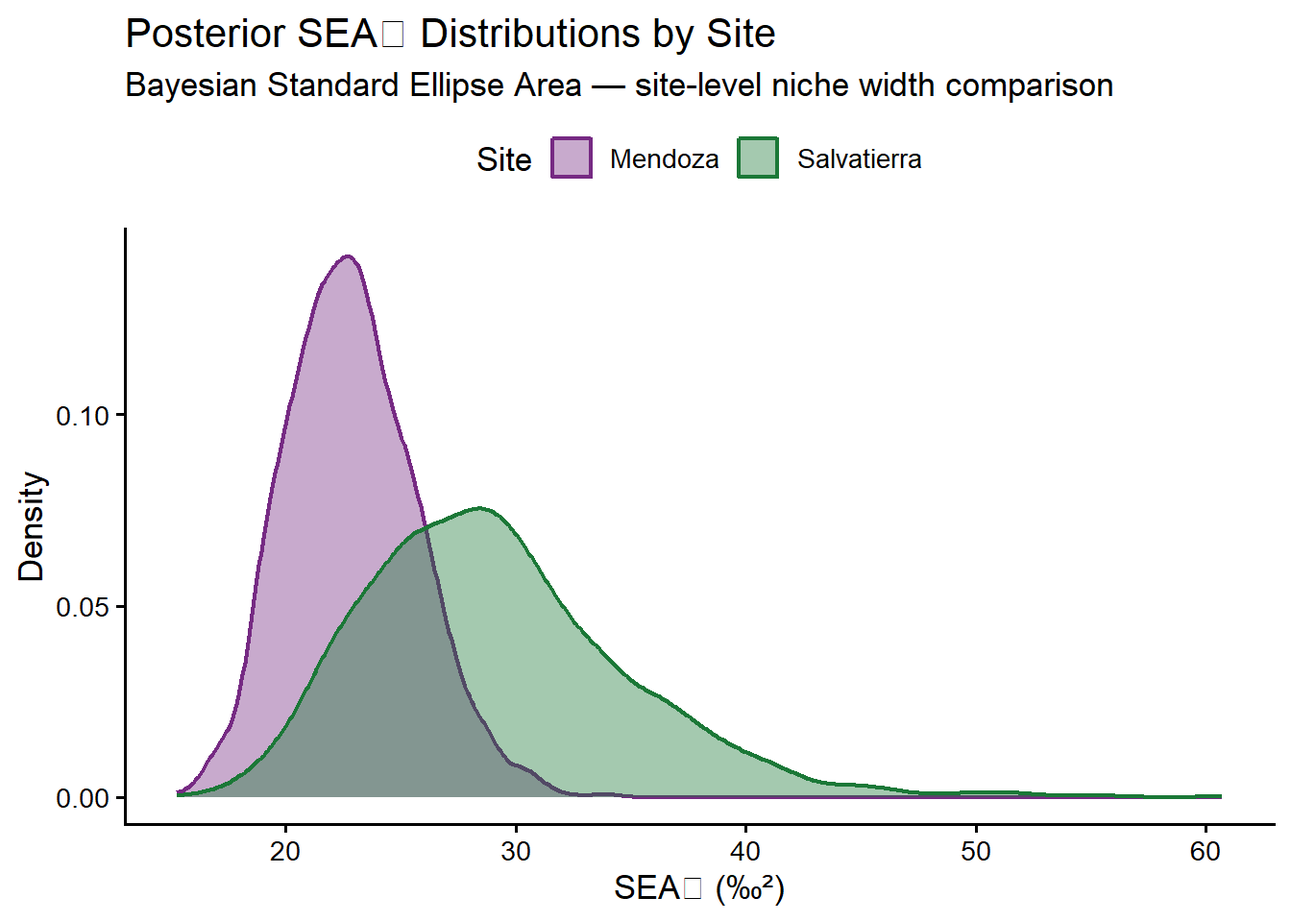
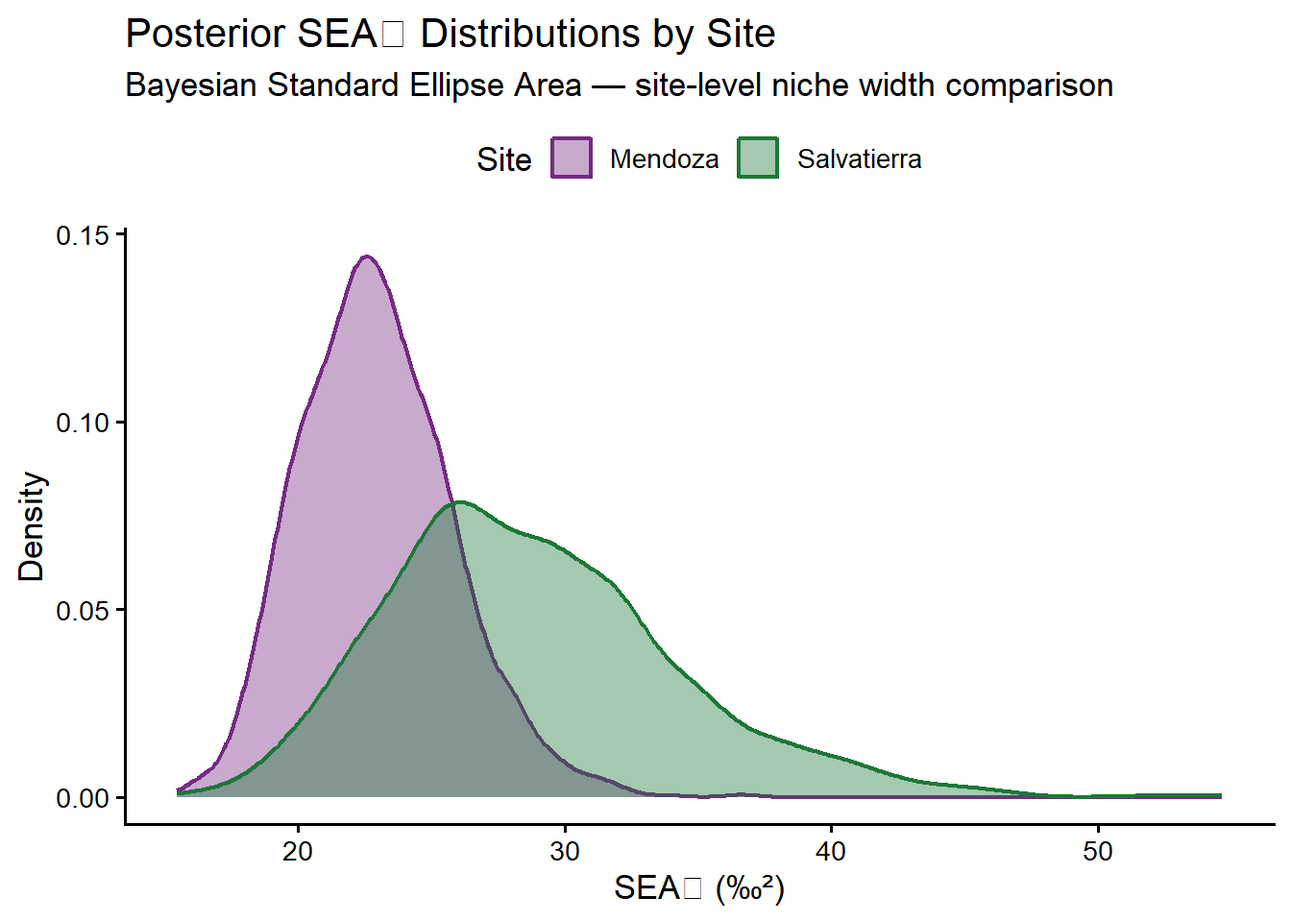
Merge remote changes from Stella

diff --git a/CollDataSciPro.html b/CollDataSciPro.html
@@ -136,24 +136,32 @@ pre > code.sourceCode > span > a:first-child::before { text-decoration: underlin
 </section>
 <section id="the-problem" class="level4">
 <h4 class="anchored" data-anchor-id="the-problem">The problem</h4>
-<p>Introduction</p>
+<p>Find innovative ways to analyze specific cases based on small and noisy datasets. Archaeological research reports several observations from diverse data that most of times does not show regular patterns or relations between them. In this case, the exploration of quantitative datasets helps us to establish correlations between different variables in order to foster interpretations on ancient human behavior and change.</p>
 </section>
 <section id="chosen-methods" class="level4">
 <h4 class="anchored" data-anchor-id="chosen-methods">Chosen methods</h4>
 <p>what is this method?</p>
-<section id="bayesian-isotopic-niche-modeling-siber-with-siber" class="level5" data-siber="">
-<h5 data-siber="" class="anchored" data-anchor-id="bayesian-isotopic-niche-modeling-siber-with-siber">Bayesian isotopic niche modeling (SIBER) with {SIBER}</h5>
+<section id="bayesian-isotopic-niche-modeling-siber-with-siber-and-kmeans-hclust" class="level5" data-siber="">
+<h5 data-siber="" class="anchored" data-anchor-id="bayesian-isotopic-niche-modeling-siber-with-siber-and-kmeans-hclust">Bayesian isotopic niche modeling (SIBER) with {SIBER} and Kmeans Hclust</h5>
 <p>This module introduces Bayesian isotopic niche modeling using SIBER to compare dietary niches across species and through time, demonstrating how ecologists and archaeologists can make robust inferences from small, noisy datasets.</p>
-<p>When should be used</p>
-<p>How can Bayesian methods be used to estimate and compare dietary niches when sample sizes are small and uncertainty is high?</p>
-<p>Why does it matter</p>
+</section>
+<section id="when-should-be-used" class="level5">
+<h5 class="anchored" data-anchor-id="when-should-be-used">When should be used</h5>
+<p>SIBER is the appropriate tool when you need to <strong>characterise and compare dietary or ecological niches</strong> from stable isotope data (δ¹³C and δ¹⁵N) across multiple groups simultaneously. It is especially well suited for archaeological and ecological studies where sample sizes are small and unequal, uncertainty needs to be explicitly quantified, and classical approaches like convex hulls or t-tests would either be biased or unable to answer the research question.</p>
+<p>The core innovation of SIBER is replacing single-point niche estimates with <strong>full posterior distributions</strong> over all plausible ellipse sizes and shapes given the observed data. It does this through three mechanisms:</p>
+<p><strong>Small-sample correction:</strong> The inverse-Wishart prior on the covariance matrix regularises extreme estimates when n is small, producing stable and interpretable ellipses even with as few as 9 observations — something classical convex hulls and maximum likelihood ellipses cannot do reliably.</p>
+<p><strong>Uncertainty quantification:</strong> Rather than asking “is group A’s niche larger than group B’s?” as a binary question, SIBER answers “in what fraction of posterior draws is A’s ellipse area larger than B’s?” — a direct probability statement that honestly reflects how much the data actually support the comparison.</p>
+<p><strong>Propagation of uncertainty:</strong> All downstream quantities — ellipse overlap, Layman community metrics, centroid distances — inherit uncertainty from the ellipse parameters, meaning conclusions about niche differences are automatically hedged by the precision of the underlying estimates.</p>
+</section>
+<section id="why-does-it-matter" class="level5">
+<h5 class="anchored" data-anchor-id="why-does-it-matter">Why does it matter</h5>
+<p>At the <strong>methodological level</strong>, SIBER transformed isotopic ecology from univariate mean comparisons to two-dimensional niche characterisation, and the Bayesian framework made that characterisation honest about its own limitations when data are sparse.</p>
+<p>At the <strong>practical level</strong>, implementing SIBER in a fully reproducible R script within a Quarto vignette means the analysis can be independently verified, extended with new data, and adapted to future excavations across the southern Amazon without redesigning the workflow from scratch.</p>
+<p>In short, SIBER matters because it is the only method that can simultaneously characterise dietary niches, compare them across groups with unequal and small sample sizes, and communicate the uncertainty in those comparisons in a statistically principled way — all of which are non-negotiable requirements for credible dietary reconstruction in archaeology and ecology.</p>
 </section>
 </section>
-<section id="the-data" class="level4">
-<h4 class="anchored" data-anchor-id="the-data">The data</h4>
-<p>Where it comes from</p>
-<p>What variables matter</p>
-<p>Analytical workflow: step by step, concrete interpretation</p>
+<section id="analytical-workflow-step-by-step-concrete-interpretation" class="level4">
+<h4 class="anchored" data-anchor-id="analytical-workflow-step-by-step-concrete-interpretation">Analytical workflow: step by step, concrete interpretation</h4>
 <section id="install-and-load-required-packages" class="level5">
 <h5 class="anchored" data-anchor-id="install-and-load-required-packages">Install and load required packages</h5>
 <div class="cell">
@@ -581,8 +589,8 @@ Posterior SEA_B summary (‰²):</code></pre>
 <div class="code-copy-outer-scaffold"><div class="sourceCode cell-code" id="cb48"><pre class="sourceCode r code-with-copy"><code class="sourceCode r"><span id="cb48-1"><a href="#cb48-1" aria-hidden="true" tabindex="-1"></a><span class="fu">print</span>(<span class="fu">round</span>(<span class="fu">t</span>(SEA_B_sites_summary), <span class="dv">3</span>))</span></code></pre></div><button title="Copy to Clipboard" class="code-copy-button"><i class="bi"></i></button></div>
 <div class="cell-output cell-output-stdout">
 <pre><code>              mean median lower.2.5% upper.97.5%
-Mendoza     22.873 22.715     17.950      28.853
-Salvatierra 29.135 28.557     20.143      41.759</code></pre>
+Mendoza     22.960 22.778     18.049      29.215
+Salvatierra 28.762 28.081     19.851      40.984</code></pre>
 </div>
 </div>
 <p>Plot posterior SEA_B distributions</p>
@@ -620,7 +628,7 @@ Salvatierra 29.135 28.557     20.143      41.759</code></pre>
 <span id="cb51-4"><a href="#cb51-4" aria-hidden="true" tabindex="-1"></a>))</span></code></pre></div><button title="Copy to Clipboard" class="code-copy-button"><i class="bi"></i></button></div>
 <div class="cell-output cell-output-stdout">
 <pre><code>
-P(SEA_B Salvatierra &gt; SEA_B Mendoza) = 0.845</code></pre>
+P(SEA_B Salvatierra &gt; SEA_B Mendoza) = 0.836</code></pre>
 </div>
 </div>
 </section>
@@ -760,10 +768,10 @@ Posterior SEA_B summary by phase (‰²):</code></pre>
 <div class="code-copy-outer-scaffold"><div class="sourceCode cell-code" id="cb64"><pre class="sourceCode r code-with-copy"><code class="sourceCode r"><span id="cb64-1"><a href="#cb64-1" aria-hidden="true" tabindex="-1"></a><span class="fu">print</span>(<span class="fu">round</span>(<span class="fu">t</span>(SEA_B_phase_summary), <span class="dv">3</span>))</span></code></pre></div><button title="Copy to Clipboard" class="code-copy-button"><i class="bi"></i></button></div>
 <div class="cell-output cell-output-stdout">
 <pre><code>         mean median lower.2.5% upper.97.5%
-Phase_2 9.653  8.995      5.006      18.028
-Phase_3 5.996  5.813      4.042       8.912
-Phase_4 6.743  6.587      4.627       9.927
-Phase_5 9.374  8.394      4.362      19.894</code></pre>
+Phase_2 9.673  8.953      5.038      18.029
+Phase_3 5.939  5.803      4.013       8.790
+Phase_4 6.695  6.522      4.587       9.705
+Phase_5 9.267  8.277      4.301      20.036</code></pre>
 </div>
 <div class="code-copy-outer-scaffold"><div class="sourceCode cell-code" id="cb66"><pre class="sourceCode r code-with-copy"><code class="sourceCode r"><span id="cb66-1"><a href="#cb66-1" aria-hidden="true" tabindex="-1"></a>SEA_B_phase_long <span class="ot">&lt;-</span> <span class="fu">as.data.frame</span>(SEA_B_phase) <span class="sc">%&gt;%</span></span>
 <span id="cb66-2"><a href="#cb66-2" aria-hidden="true" tabindex="-1"></a>  <span class="fu">pivot_longer</span>(<span class="fu">everything</span>(), <span class="at">names_to =</span> <span class="st">"Phase"</span>, <span class="at">values_to =</span> <span class="st">"SEA_B"</span>) <span class="sc">%&gt;%</span></span>
@@ -802,12 +810,12 @@ Pairwise posterior probabilities P(row &gt; col):</code></pre>
 <span id="cb69-3"><a href="#cb69-3" aria-hidden="true" tabindex="-1"></a>  <span class="fu">cat</span>(<span class="fu">sprintf</span>(<span class="st">"  P(%s &gt; %s) = %.3f</span><span class="sc">\n</span><span class="st">"</span>, pair[<span class="dv">1</span>], pair[<span class="dv">2</span>], p))</span>
 <span id="cb69-4"><a href="#cb69-4" aria-hidden="true" tabindex="-1"></a>}</span></code></pre></div><button title="Copy to Clipboard" class="code-copy-button"><i class="bi"></i></button></div>
 <div class="cell-output cell-output-stdout">
-<pre><code>  P(Phase_2 &gt; Phase_3) = 0.878
-  P(Phase_2 &gt; Phase_4) = 0.814
-  P(Phase_2 &gt; Phase_5) = 0.555
-  P(Phase_3 &gt; Phase_4) = 0.336
+<pre><code>  P(Phase_2 &gt; Phase_3) = 0.881
+  P(Phase_2 &gt; Phase_4) = 0.802
+  P(Phase_2 &gt; Phase_5) = 0.562
+  P(Phase_3 &gt; Phase_4) = 0.343
   P(Phase_3 &gt; Phase_5) = 0.184
-  P(Phase_4 &gt; Phase_5) = 0.258</code></pre>
+  P(Phase_4 &gt; Phase_5) = 0.301</code></pre>
 </div>
 </div>
 </section>
@@ -1017,13 +1025,13 @@ Posterior SEA_B summary for all groups (‰²):</code></pre>
 <div class="code-copy-outer-scaffold"><div class="sourceCode cell-code" id="cb89"><pre class="sourceCode r code-with-copy"><code class="sourceCode r"><span id="cb89-1"><a href="#cb89-1" aria-hidden="true" tabindex="-1"></a><span class="fu">print</span>(<span class="fu">round</span>(<span class="fu">t</span>(SEA_B_combined_summary), <span class="dv">3</span>))</span></code></pre></div><button title="Copy to Clipboard" class="code-copy-button"><i class="bi"></i></button></div>
 <div class="cell-output cell-output-stdout">
 <pre><code>                     mean median lower.2.5% upper.97.5%
-Salvatierra Humans 22.990 22.652     18.070      29.214
-Mendoza Humans     29.004 28.244     19.832      42.169
-Ungulates           4.171  3.914      2.239       7.748
-Armadillos          5.405  5.113      3.189       9.212
-Riverines           7.027  6.828      4.391      10.747
-Muscovy Duck       19.363 18.048      9.757      37.270
-Rodents             9.258  8.579      4.733      17.688</code></pre>
+Salvatierra Humans 22.972 22.782     18.014      29.227
+Mendoza Humans     29.088 28.369     19.972      42.847
+Ungulates           4.153  3.843      2.237       7.760
+Armadillos          5.474  5.140      3.188       9.453
+Riverines           7.045  6.817      4.537      10.721
+Muscovy Duck       19.432 18.085      9.875      37.551
+Rodents             9.330  8.599      4.839      18.420</code></pre>
 </div>
 <div class="code-copy-outer-scaffold"><div class="sourceCode cell-code" id="cb91"><pre class="sourceCode r code-with-copy"><code class="sourceCode r"><span id="cb91-1"><a href="#cb91-1" aria-hidden="true" tabindex="-1"></a>plot_df <span class="ot">&lt;-</span> siber_combined_df <span class="sc">%&gt;%</span></span>
 <span id="cb91-2"><a href="#cb91-2" aria-hidden="true" tabindex="-1"></a>  <span class="fu">rename</span>(<span class="at">d13C =</span> iso1, <span class="at">d15N =</span> iso2)</span>
@@ -1358,7 +1366,7 @@ Phase 3   0.317   1.000   0.535   0.533
 Phase 4   0.188   0.535   1.000   0.379
 Phase 5   0.006   0.533   0.379   1.000</code></pre>
 </div>
-<div class="code-copy-outer-scaffold"><div class="sourceCode cell-code" id="cb137"><pre class="sourceCode r code-with-copy"><code class="sourceCode r"><span id="cb137-1"><a href="#cb137-1" aria-hidden="true" tabindex="-1"></a><span class="co"># --- 11d. Visualise as annotated heatmap ---</span></span>
+<div class="code-copy-outer-scaffold"><div class="sourceCode cell-code" id="cb137"><pre class="sourceCode r code-with-copy"><code class="sourceCode r"><span id="cb137-1"><a href="#cb137-1" aria-hidden="true" tabindex="-1"></a><span class="co"># ---. Visualise as annotated heatmap ---</span></span>
 <span id="cb137-2"><a href="#cb137-2" aria-hidden="true" tabindex="-1"></a>overlap_df <span class="ot">&lt;-</span> <span class="fu">as.data.frame</span>(overlap_matrix) <span class="sc">%&gt;%</span></span>
 <span id="cb137-3"><a href="#cb137-3" aria-hidden="true" tabindex="-1"></a>  <span class="fu">rownames_to_column</span>(<span class="st">"Phase_row"</span>) <span class="sc">%&gt;%</span></span>
 <span id="cb137-4"><a href="#cb137-4" aria-hidden="true" tabindex="-1"></a>  <span class="fu">pivot_longer</span>(<span class="sc">-</span>Phase_row, <span class="at">names_to =</span> <span class="st">"Phase_col"</span>, <span class="at">values_to =</span> <span class="st">"Overlap"</span>) <span class="sc">%&gt;%</span></span>
@@ -1457,7 +1465,7 @@ Low overlap between Phase 2 and later phases confirms dietary divergence.</code>
 <section id="layman-metrics-and-community-level-niche-partitioning" class="level5">
 <h5 class="anchored" data-anchor-id="layman-metrics-and-community-level-niche-partitioning">Layman Metrics and Community-Level Niche Partitioning</h5>
 <div class="cell">
-<div class="code-copy-outer-scaffold"><div class="sourceCode cell-code" id="cb150"><pre class="sourceCode r code-with-copy"><code class="sourceCode r"><span id="cb150-1"><a href="#cb150-1" aria-hidden="true" tabindex="-1"></a><span class="co"># --- 12a. Layman metrics computed directly from posterior ellipse centroids ---</span></span>
+<div class="code-copy-outer-scaffold"><div class="sourceCode cell-code" id="cb150"><pre class="sourceCode r code-with-copy"><code class="sourceCode r"><span id="cb150-1"><a href="#cb150-1" aria-hidden="true" tabindex="-1"></a><span class="co">#  Layman metrics computed directly from posterior ellipse centroids ---</span></span>
 <span id="cb150-2"><a href="#cb150-2" aria-hidden="true" tabindex="-1"></a><span class="co"># Instead of bayesianLayman() which requires a specific multi-community</span></span>
 <span id="cb150-3"><a href="#cb150-3" aria-hidden="true" tabindex="-1"></a><span class="co"># structure, we extract the posterior mean vectors from ellipses_phase</span></span>
 <span id="cb150-4"><a href="#cb150-4" aria-hidden="true" tabindex="-1"></a><span class="co"># and compute Layman metrics manually across MCMC draws.</span></span>
@@ -1504,8 +1512,8 @@ Posterior centroid draws structure:</code></pre>
 Columns: 4
 $ draw  &lt;int&gt; 1, 2, 3, 4, 5, 6, 7, 8, 9, 10, 11, 12, 13, 14, 15, 16, 17, 18, 1…
 $ phase &lt;chr&gt; "2", "2", "2", "2", "2", "2", "2", "2", "2", "2", "2", "2", "2",…
-$ mu1   &lt;dbl&gt; 5.260016, 5.015873, 4.260394, 2.522004, 2.324400, 6.563107, 2.65…
-$ mu2   &lt;dbl&gt; 1.72521963, 0.15289952, 1.58179940, 1.19435120, 0.49721624, 2.45…</code></pre>
+$ mu1   &lt;dbl&gt; 1.937532, 7.696923, 4.226281, 2.017252, 1.930712, 1.979018, 3.93…
+$ mu2   &lt;dbl&gt; 0.96980325, 3.51747348, 2.00134783, 0.36311704, 0.38974790, 1.00…</code></pre>
 </div>
 <div class="code-copy-outer-scaffold"><div class="sourceCode cell-code" id="cb158"><pre class="sourceCode r code-with-copy"><code class="sourceCode r"><span id="cb158-1"><a href="#cb158-1" aria-hidden="true" tabindex="-1"></a><span class="co"># --- Compute Layman metrics per posterior draw ---</span></span>
 <span id="cb158-2"><a href="#cb158-2" aria-hidden="true" tabindex="-1"></a><span class="co"># For each draw, compute the 6 Layman metrics across the 4 phase centroids</span></span>
@@ -1593,14 +1601,14 @@ Posterior Layman Metrics Summary:</code></pre>
 <pre><code># A tibble: 6 × 5
   Metric    mean median lower upper
   &lt;chr&gt;    &lt;dbl&gt;  &lt;dbl&gt; &lt;dbl&gt; &lt;dbl&gt;
-1 dC_range  3.67   2.84 0.794 11.6 
-2 dN_range  4.66   3.97 1.24  12.1 
-3 TA        5.81   3.54 0.556 24.3 
-4 CD        2.13   1.77 0.761  5.61
-5 MNND      2.03   1.77 0.766  4.84
-6 SDNND     1.71   1.21 0.117  6.36</code></pre>
+1 dC_range  3.74   2.87 0.726 12.6 
+2 dN_range  4.78   3.97 1.40  13.2 
+3 TA        6.06   3.66 0.466 24.8 
+4 CD        2.18   1.78 0.776  5.95
+5 MNND      2.07   1.79 0.765  5.03
+6 SDNND     1.78   1.23 0.144  6.78</code></pre>
 </div>
-<div class="code-copy-outer-scaffold"><div class="sourceCode cell-code" id="cb164"><pre class="sourceCode r code-with-copy"><code class="sourceCode r"><span id="cb164-1"><a href="#cb164-1" aria-hidden="true" tabindex="-1"></a><span class="co"># --- 12b. Visualise ---</span></span>
+<div class="code-copy-outer-scaffold"><div class="sourceCode cell-code" id="cb164"><pre class="sourceCode r code-with-copy"><code class="sourceCode r"><span id="cb164-1"><a href="#cb164-1" aria-hidden="true" tabindex="-1"></a><span class="co"># ---  Visualise ---</span></span>
 <span id="cb164-2"><a href="#cb164-2" aria-hidden="true" tabindex="-1"></a>layman_long <span class="ot">&lt;-</span> layman_draws <span class="sc">%&gt;%</span></span>
 <span id="cb164-3"><a href="#cb164-3" aria-hidden="true" tabindex="-1"></a>  <span class="fu">select</span>(<span class="sc">-</span>draw) <span class="sc">%&gt;%</span></span>
 <span id="cb164-4"><a href="#cb164-4" aria-hidden="true" tabindex="-1"></a>  <span class="fu">pivot_longer</span>(<span class="fu">everything</span>(), <span class="at">names_to =</span> <span class="st">"Metric"</span>, <span class="at">values_to =</span> <span class="st">"Value"</span>) <span class="sc">%&gt;%</span></span>
@@ -1651,7 +1659,7 @@ Posterior Layman Metrics Summary:</code></pre>
 </figure>
 </div>
 </div>
-<div class="code-copy-outer-scaffold"><div class="sourceCode cell-code" id="cb165"><pre class="sourceCode r code-with-copy"><code class="sourceCode r"><span id="cb165-1"><a href="#cb165-1" aria-hidden="true" tabindex="-1"></a><span class="co"># --- 12c. Niche partitioning: group centroids in isotopic space ---</span></span>
+<div class="code-copy-outer-scaffold"><div class="sourceCode cell-code" id="cb165"><pre class="sourceCode r code-with-copy"><code class="sourceCode r"><span id="cb165-1"><a href="#cb165-1" aria-hidden="true" tabindex="-1"></a><span class="co"># --- Niche partitioning: group centroids in isotopic space ---</span></span>
 <span id="cb165-2"><a href="#cb165-2" aria-hidden="true" tabindex="-1"></a>centroids <span class="ot">&lt;-</span> <span class="fu">bind_rows</span>(</span>
 <span id="cb165-3"><a href="#cb165-3" aria-hidden="true" tabindex="-1"></a>  humans <span class="sc">%&gt;%</span></span>
 <span id="cb165-4"><a href="#cb165-4" aria-hidden="true" tabindex="-1"></a>    <span class="fu">mutate</span>(<span class="at">group =</span> <span class="fu">paste</span>(site, <span class="st">"Humans"</span>)) <span class="sc">%&gt;%</span></span>
@@ -1860,37 +1868,35 @@ $ site          &lt;chr&gt; "Salvatierra", "Salvatierra", "Salvatierra", "Salvat
 <div class="cell-output cell-output-stdout">
 <pre><code>C4 (maize) endpoint:                -6.00‰</code></pre>
 </div>
-<div class="code-copy-outer-scaffold"><div class="sourceCode cell-code" id="cb184"><pre class="sourceCode r code-with-copy"><code class="sourceCode r"><span id="cb184-1"><a href="#cb184-1" aria-hidden="true" tabindex="-1"></a><span class="co"># --- 13b. Compute f_C4 for each individual ---</span></span>
-<span id="cb184-2"><a href="#cb184-2" aria-hidden="true" tabindex="-1"></a><span class="co"># Apply the two-source mixing model to every individual in the dataset.</span></span>
-<span id="cb184-3"><a href="#cb184-3" aria-hidden="true" tabindex="-1"></a><span class="co"># Values outside [0,1] are clamped — these indicate the simple two-source</span></span>
-<span id="cb184-4"><a href="#cb184-4" aria-hidden="true" tabindex="-1"></a><span class="co"># model is not perfectly capturing the full dietary complexity, but they</span></span>
-<span id="cb184-5"><a href="#cb184-5" aria-hidden="true" tabindex="-1"></a><span class="co"># remain informative as relative indicators.</span></span>
-<span id="cb184-6"><a href="#cb184-6" aria-hidden="true" tabindex="-1"></a> </span>
-<span id="cb184-7"><a href="#cb184-7" aria-hidden="true" tabindex="-1"></a>humans_phase <span class="ot">&lt;-</span> humans <span class="sc">%&gt;%</span></span>
-<span id="cb184-8"><a href="#cb184-8" aria-hidden="true" tabindex="-1"></a>  <span class="fu">filter</span>(phase <span class="sc">%in%</span> <span class="fu">c</span>(<span class="st">"2"</span>, <span class="st">"3"</span>, <span class="st">"4"</span>, <span class="st">"5"</span>)) <span class="sc">%&gt;%</span></span>
-<span id="cb184-9"><a href="#cb184-9" aria-hidden="true" tabindex="-1"></a>  <span class="fu">mutate</span>(</span>
-<span id="cb184-10"><a href="#cb184-10" aria-hidden="true" tabindex="-1"></a>    <span class="at">phase =</span> <span class="fu">factor</span>(phase, <span class="at">levels =</span> <span class="fu">c</span>(<span class="st">"2"</span>, <span class="st">"3"</span>, <span class="st">"4"</span>, <span class="st">"5"</span>)),</span>
-<span id="cb184-11"><a href="#cb184-11" aria-hidden="true" tabindex="-1"></a>    <span class="at">Unit  =</span> <span class="fu">as.character</span>(Unit)</span>
-<span id="cb184-12"><a href="#cb184-12" aria-hidden="true" tabindex="-1"></a>  ) <span class="sc">%&gt;%</span></span>
-<span id="cb184-13"><a href="#cb184-13" aria-hidden="true" tabindex="-1"></a>  <span class="fu">select</span>(d13C, d15N, phase, site)   <span class="co"># keep only what is needed</span></span>
-<span id="cb184-14"><a href="#cb184-14" aria-hidden="true" tabindex="-1"></a></span>
-<span id="cb184-15"><a href="#cb184-15" aria-hidden="true" tabindex="-1"></a><span class="co"># Rebuild SIBER phase object from scratch</span></span>
-<span id="cb184-16"><a href="#cb184-16" aria-hidden="true" tabindex="-1"></a>siber_phase_df <span class="ot">&lt;-</span> humans_phase <span class="sc">%&gt;%</span></span>
-<span id="cb184-17"><a href="#cb184-17" aria-hidden="true" tabindex="-1"></a>  <span class="fu">mutate</span>(</span>
-<span id="cb184-18"><a href="#cb184-18" aria-hidden="true" tabindex="-1"></a>    <span class="at">iso1      =</span> <span class="fu">as.numeric</span>(d13C),</span>
-<span id="cb184-19"><a href="#cb184-19" aria-hidden="true" tabindex="-1"></a>    <span class="at">iso2      =</span> <span class="fu">as.numeric</span>(d15N),</span>
-<span id="cb184-20"><a href="#cb184-20" aria-hidden="true" tabindex="-1"></a>    <span class="at">group     =</span> <span class="fu">as.character</span>(phase),</span>
-<span id="cb184-21"><a href="#cb184-21" aria-hidden="true" tabindex="-1"></a>    <span class="at">community =</span> <span class="st">"1"</span></span>
-<span id="cb184-22"><a href="#cb184-22" aria-hidden="true" tabindex="-1"></a>  ) <span class="sc">%&gt;%</span></span>
-<span id="cb184-23"><a href="#cb184-23" aria-hidden="true" tabindex="-1"></a>  <span class="fu">filter</span>(<span class="sc">!</span><span class="fu">is.na</span>(iso1), <span class="sc">!</span><span class="fu">is.na</span>(iso2)) <span class="sc">%&gt;%</span></span>
-<span id="cb184-24"><a href="#cb184-24" aria-hidden="true" tabindex="-1"></a>  <span class="fu">select</span>(iso1, iso2, group, community) <span class="sc">%&gt;%</span></span>
-<span id="cb184-25"><a href="#cb184-25" aria-hidden="true" tabindex="-1"></a>  <span class="fu">setNames</span>(<span class="fu">c</span>(<span class="st">"iso1"</span>, <span class="st">"iso2"</span>, <span class="st">"group"</span>, <span class="st">"community"</span>)) <span class="sc">%&gt;%</span></span>
-<span id="cb184-26"><a href="#cb184-26" aria-hidden="true" tabindex="-1"></a>  <span class="fu">mutate</span>(</span>
-<span id="cb184-27"><a href="#cb184-27" aria-hidden="true" tabindex="-1"></a>    <span class="at">group     =</span> <span class="fu">as.factor</span>(group),</span>
-<span id="cb184-28"><a href="#cb184-28" aria-hidden="true" tabindex="-1"></a>    <span class="at">community =</span> <span class="fu">as.factor</span>(community)</span>
-<span id="cb184-29"><a href="#cb184-29" aria-hidden="true" tabindex="-1"></a>  )</span>
-<span id="cb184-30"><a href="#cb184-30" aria-hidden="true" tabindex="-1"></a></span>
-<span id="cb184-31"><a href="#cb184-31" aria-hidden="true" tabindex="-1"></a>siber_phase    <span class="ot">&lt;-</span> <span class="fu">createSiberObject</span>(siber_phase_df)</span></code></pre></div><button title="Copy to Clipboard" class="code-copy-button"><i class="bi"></i></button></div>
+<div class="code-copy-outer-scaffold"><div class="sourceCode cell-code" id="cb184"><pre class="sourceCode r code-with-copy"><code class="sourceCode r"><span id="cb184-1"><a href="#cb184-1" aria-hidden="true" tabindex="-1"></a><span class="co"># ---  Compute f_C4 for each individual ---</span></span>
+<span id="cb184-2"><a href="#cb184-2" aria-hidden="true" tabindex="-1"></a></span>
+<span id="cb184-3"><a href="#cb184-3" aria-hidden="true" tabindex="-1"></a><span class="co"># model is not perfectly capturing the full dietary complexity, but they remain informative as relative indicators.</span></span>
+<span id="cb184-4"><a href="#cb184-4" aria-hidden="true" tabindex="-1"></a> </span>
+<span id="cb184-5"><a href="#cb184-5" aria-hidden="true" tabindex="-1"></a>humans_phase <span class="ot">&lt;-</span> humans <span class="sc">%&gt;%</span></span>
+<span id="cb184-6"><a href="#cb184-6" aria-hidden="true" tabindex="-1"></a>  <span class="fu">filter</span>(phase <span class="sc">%in%</span> <span class="fu">c</span>(<span class="st">"2"</span>, <span class="st">"3"</span>, <span class="st">"4"</span>, <span class="st">"5"</span>)) <span class="sc">%&gt;%</span></span>
+<span id="cb184-7"><a href="#cb184-7" aria-hidden="true" tabindex="-1"></a>  <span class="fu">mutate</span>(</span>
+<span id="cb184-8"><a href="#cb184-8" aria-hidden="true" tabindex="-1"></a>    <span class="at">phase =</span> <span class="fu">factor</span>(phase, <span class="at">levels =</span> <span class="fu">c</span>(<span class="st">"2"</span>, <span class="st">"3"</span>, <span class="st">"4"</span>, <span class="st">"5"</span>)),</span>
+<span id="cb184-9"><a href="#cb184-9" aria-hidden="true" tabindex="-1"></a>    <span class="at">Unit  =</span> <span class="fu">as.character</span>(Unit)</span>
+<span id="cb184-10"><a href="#cb184-10" aria-hidden="true" tabindex="-1"></a>  ) <span class="sc">%&gt;%</span></span>
+<span id="cb184-11"><a href="#cb184-11" aria-hidden="true" tabindex="-1"></a>  <span class="fu">select</span>(d13C, d15N, phase, site)   <span class="co"># keep only what is needed</span></span>
+<span id="cb184-12"><a href="#cb184-12" aria-hidden="true" tabindex="-1"></a></span>
+<span id="cb184-13"><a href="#cb184-13" aria-hidden="true" tabindex="-1"></a><span class="co"># Rebuild SIBER phase object from scratch</span></span>
+<span id="cb184-14"><a href="#cb184-14" aria-hidden="true" tabindex="-1"></a>siber_phase_df <span class="ot">&lt;-</span> humans_phase <span class="sc">%&gt;%</span></span>
+<span id="cb184-15"><a href="#cb184-15" aria-hidden="true" tabindex="-1"></a>  <span class="fu">mutate</span>(</span>
+<span id="cb184-16"><a href="#cb184-16" aria-hidden="true" tabindex="-1"></a>    <span class="at">iso1      =</span> <span class="fu">as.numeric</span>(d13C),</span>
+<span id="cb184-17"><a href="#cb184-17" aria-hidden="true" tabindex="-1"></a>    <span class="at">iso2      =</span> <span class="fu">as.numeric</span>(d15N),</span>
+<span id="cb184-18"><a href="#cb184-18" aria-hidden="true" tabindex="-1"></a>    <span class="at">group     =</span> <span class="fu">as.character</span>(phase),</span>
+<span id="cb184-19"><a href="#cb184-19" aria-hidden="true" tabindex="-1"></a>    <span class="at">community =</span> <span class="st">"1"</span></span>
+<span id="cb184-20"><a href="#cb184-20" aria-hidden="true" tabindex="-1"></a>  ) <span class="sc">%&gt;%</span></span>
+<span id="cb184-21"><a href="#cb184-21" aria-hidden="true" tabindex="-1"></a>  <span class="fu">filter</span>(<span class="sc">!</span><span class="fu">is.na</span>(iso1), <span class="sc">!</span><span class="fu">is.na</span>(iso2)) <span class="sc">%&gt;%</span></span>
+<span id="cb184-22"><a href="#cb184-22" aria-hidden="true" tabindex="-1"></a>  <span class="fu">select</span>(iso1, iso2, group, community) <span class="sc">%&gt;%</span></span>
+<span id="cb184-23"><a href="#cb184-23" aria-hidden="true" tabindex="-1"></a>  <span class="fu">setNames</span>(<span class="fu">c</span>(<span class="st">"iso1"</span>, <span class="st">"iso2"</span>, <span class="st">"group"</span>, <span class="st">"community"</span>)) <span class="sc">%&gt;%</span></span>
+<span id="cb184-24"><a href="#cb184-24" aria-hidden="true" tabindex="-1"></a>  <span class="fu">mutate</span>(</span>
+<span id="cb184-25"><a href="#cb184-25" aria-hidden="true" tabindex="-1"></a>    <span class="at">group     =</span> <span class="fu">as.factor</span>(group),</span>
+<span id="cb184-26"><a href="#cb184-26" aria-hidden="true" tabindex="-1"></a>    <span class="at">community =</span> <span class="fu">as.factor</span>(community)</span>
+<span id="cb184-27"><a href="#cb184-27" aria-hidden="true" tabindex="-1"></a>  )</span>
+<span id="cb184-28"><a href="#cb184-28" aria-hidden="true" tabindex="-1"></a></span>
+<span id="cb184-29"><a href="#cb184-29" aria-hidden="true" tabindex="-1"></a>siber_phase    <span class="ot">&lt;-</span> <span class="fu">createSiberObject</span>(siber_phase_df)</span></code></pre></div><button title="Copy to Clipboard" class="code-copy-button"><i class="bi"></i></button></div>
 <div class="cell-output cell-output-stderr">
 <pre><code>Warning in createSiberObject(siber_phase_df): The data object supplied is of class tibble. 
             This has likely occurred owing to use of the 
@@ -1964,7 +1970,7 @@ Initializing model</code></pre>
 <span id="cb188-16"><a href="#cb188-16" aria-hidden="true" tabindex="-1"></a>    <span class="at">pct_maize =</span> f_C4 <span class="sc">*</span> <span class="dv">100</span></span>
 <span id="cb188-17"><a href="#cb188-17" aria-hidden="true" tabindex="-1"></a>  )</span>
 <span id="cb188-18"><a href="#cb188-18" aria-hidden="true" tabindex="-1"></a> </span>
-<span id="cb188-19"><a href="#cb188-19" aria-hidden="true" tabindex="-1"></a><span class="co"># --- 13c. Summarise f_C4 by group ---</span></span>
+<span id="cb188-19"><a href="#cb188-19" aria-hidden="true" tabindex="-1"></a><span class="co"># --- Summarise f_C4 by group ---</span></span>
 <span id="cb188-20"><a href="#cb188-20" aria-hidden="true" tabindex="-1"></a>maize_summary <span class="ot">&lt;-</span> mixing_df <span class="sc">%&gt;%</span></span>
 <span id="cb188-21"><a href="#cb188-21" aria-hidden="true" tabindex="-1"></a>  <span class="fu">group_by</span>(group) <span class="sc">%&gt;%</span></span>
 <span id="cb188-22"><a href="#cb188-22" aria-hidden="true" tabindex="-1"></a>  <span class="fu">summarise</span>(</span>
@@ -2032,7 +2038,7 @@ Initializing model</code></pre>
 3 4        27           29.5         16.8
 4 5         7           28           18.1</code></pre>
 </div>
-<div class="code-copy-outer-scaffold"><div class="sourceCode cell-code" id="cb196"><pre class="sourceCode r code-with-copy"><code class="sourceCode r"><span id="cb196-1"><a href="#cb196-1" aria-hidden="true" tabindex="-1"></a><span class="co"># --- 13e. Visualise maize contribution across groups ---</span></span>
+<div class="code-copy-outer-scaffold"><div class="sourceCode cell-code" id="cb196"><pre class="sourceCode r code-with-copy"><code class="sourceCode r"><span id="cb196-1"><a href="#cb196-1" aria-hidden="true" tabindex="-1"></a><span class="co"># --- Visualise maize contribution across groups ---</span></span>
 <span id="cb196-2"><a href="#cb196-2" aria-hidden="true" tabindex="-1"></a><span class="co"># Combine group-level and phase-level for a two-panel figure</span></span>
 <span id="cb196-3"><a href="#cb196-3" aria-hidden="true" tabindex="-1"></a> </span>
 <span id="cb196-4"><a href="#cb196-4" aria-hidden="true" tabindex="-1"></a><span class="co"># Panel A: % maize by ecological group</span></span>
